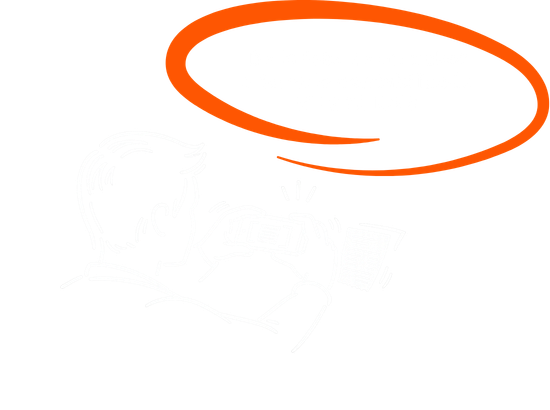
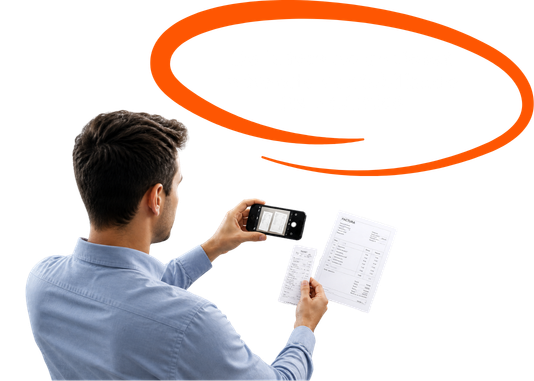
cambios y ajustes antes de subida a hubspot

diff --git a/src/components/sections/CampaignHeroSection.jsx b/src/components/sections/CampaignHeroSection.jsx
@@ -170,13 +170,30 @@ function CameraArt({ bubbleLines }) {
   )
 }
 
-function ImageArt({ src, alt }) {
+function ImageArt({ src, alt, layout }) {
+  const isCameraHero = layout === 'camera-hero'
+  const isSupervisarHero = layout === 'supervisar-hero'
+
   return (
-    <div className="relative mx-auto flex h-full w-full max-w-[25rem] items-center justify-center">
+    <div
+      className={`relative mx-auto flex h-full w-full items-start justify-center ${
+        isCameraHero
+          ? 'max-w-[24rem] lg:max-w-[30rem] lg:mt-8 lg:translate-x-4 lg:justify-end'
+          : isSupervisarHero
+            ? 'max-w-[24rem] lg:max-w-[34rem] lg:mt-5 lg:-translate-x-10 lg:justify-end'
+            : 'max-w-[25rem] lg:max-w-[27rem] lg:-mt-4 lg:justify-end'
+      }`}
+    >
       <img
         src={src}
         alt={alt}
-        className="relative z-10 h-auto w-full max-w-[24rem] object-contain drop-shadow-[0_18px_40px_rgba(6,10,18,0.28)]"
+        className={`relative z-10 h-auto w-full object-contain drop-shadow-[0_18px_40px_rgba(6,10,18,0.28)] ${
+          isCameraHero
+            ? 'max-w-[23rem] lg:max-w-[29rem]'
+            : isSupervisarHero
+              ? 'max-w-[24rem] lg:max-w-[33rem]'
+              : 'max-w-[24rem] lg:max-w-[26rem]'
+        }`}
       />
     </div>
   )
@@ -200,7 +217,7 @@ function CampaignHeroArt({ art }) {
   }
 
   if (art.type === 'image') {
-    return <ImageArt src={art.src} alt={art.alt} />
+    return <ImageArt src={art.src} alt={art.alt} layout={art.layout} />
   }
 
   return null
@@ -209,11 +226,16 @@ function CampaignHeroArt({ art }) {
 export function CampaignHeroSection({ variant }) {
   const { hero, tracking } = variant
   const hasTrialOffer = Boolean(hero.trialOffer)
+  const isSupervisarHero = hero.art?.layout === 'supervisar-hero'
 
   return (
     <section
       className={`relative overflow-hidden bg-[#0f2044] px-6 pt-28 text-white sm:pt-32 lg:pt-36 ${
-        hasTrialOffer ? 'pb-16 sm:pb-20 lg:pb-24' : 'pb-10 sm:pb-12'
+        hasTrialOffer
+          ? 'pb-16 sm:pb-20 lg:pb-24'
+          : isSupervisarHero
+            ? 'pb-12 sm:pb-14 lg:pb-10'
+            : 'pb-10 sm:pb-12'
       }`}
     >
       <div
@@ -230,9 +252,21 @@ export function CampaignHeroSection({ variant }) {
           ))}
         </h1>
 
-        <div className="mt-6 grid gap-8 lg:mt-5 lg:grid-cols-[minmax(0,1.08fr)_minmax(16rem,0.82fr)] lg:items-start">
+        <div
+          className={`mt-6 grid gap-8 lg:mt-5 lg:items-start ${
+            isSupervisarHero
+              ? 'lg:gap-2 lg:grid-cols-[minmax(0,1fr)_minmax(20rem,1fr)]'
+              : 'lg:grid-cols-[minmax(0,1.08fr)_minmax(16rem,0.82fr)]'
+          }`}
+        >
           <div className="max-w-3xl">
-            <ul className="space-y-3 text-[1.28rem] leading-[1.08] font-bold tracking-[-0.01em] text-white sm:text-[1.4rem] lg:text-[1.5rem]">
+            <ul
+              className={`space-y-3 leading-[1.08] font-bold tracking-[-0.01em] text-white ${
+                isSupervisarHero
+                  ? 'text-[1.16rem] sm:text-[1.26rem] lg:text-[1.34rem]'
+                  : 'text-[1.28rem] sm:text-[1.4rem] lg:text-[1.5rem]'
+              }`}
+            >
               {hero.bullets.map((bullet, index) => (
                 <li key={`${bullet.type}-${index}`} className="flex items-start gap-3">
                   {bullet.type === 'check' ? (
@@ -259,7 +293,7 @@ export function CampaignHeroSection({ variant }) {
               </div>
             ) : null}
 
-            <div className="mt-10 flex flex-col gap-4 sm:flex-row">
+            <div className={`flex flex-col gap-4 sm:flex-row ${isSupervisarHero ? 'mt-9 lg:mt-11' : 'mt-10'}`}>
               <a
                 href={siteConfig.urls.demo}
                 target="_blank"
@@ -289,7 +323,7 @@ export function CampaignHeroSection({ variant }) {
             </div>
           </div>
 
-          <div className="min-h-[14rem] lg:min-h-[20rem]">
+          <div className={`min-h-[14rem] ${isSupervisarHero ? 'lg:min-h-[21rem]' : 'lg:min-h-[20rem]'}`}>
             <CampaignHeroArt art={hero.art} />
           </div>
         </div>

diff --git a/src/index.css b/src/index.css
@@ -29,9 +29,7 @@ body,
 body {
   margin: 0;
   min-width: 320px;
-  background:
-    radial-gradient(circle at top, rgba(254, 86, 2, 0.08), transparent 30%),
-    var(--page-bg);
+  background: var(--page-bg);
 }
 
 a:focus-visible,
@@ -91,9 +89,7 @@ button:focus-visible {
 }
 
 .mesh-bg {
-  background:
-    radial-gradient(ellipse 80% 60% at 50% -20%, rgba(249, 115, 22, 0.12), transparent),
-    radial-gradient(ellipse 60% 40% at 80% 100%, rgba(59, 130, 246, 0.06), transparent);
+  background: radial-gradient(ellipse 60% 40% at 80% 100%, rgba(59, 130, 246, 0.06), transparent);
 }
 
 .grid-lines {
@@ -116,11 +112,11 @@ button:focus-visible {
 }
 
 .glow-orange {
-  box-shadow: 0 4px 24px color-mix(in srgb, var(--cta-accent) 35%, transparent);
+  box-shadow: none;
 }
 
 .glow-soft {
-  box-shadow: 0 0 20px color-mix(in srgb, var(--cta-accent) 20%, transparent);
+  box-shadow: none;
 }
 
 .gradient-text {
@@ -141,12 +137,11 @@ button:focus-visible {
   background: linear-gradient(135deg, var(--cta-accent), #dc4a00);
   transition:
     transform 0.25s ease,
-    box-shadow 0.25s ease;
+    background-color 0.25s ease;
 }
 
 .btn-primary:hover {
   transform: translateY(-2px);
-  box-shadow: 0 8px 32px color-mix(in srgb, var(--cta-accent) 50%, transparent);
 }
 
 .btn-ghost {
@@ -245,7 +240,7 @@ button:focus-visible {
 }
 
 .pulse-ring {
-  animation: pulse-ring 2.5s ease infinite;
+  animation: none;
 }
 
 @keyframes float {
@@ -273,17 +268,14 @@ button:focus-visible {
 
 .campaign-btn-primary {
   background: var(--cta-accent);
-  box-shadow: 0 18px 40px color-mix(in srgb, var(--cta-accent) 28%, transparent);
   transition:
     transform 0.25s ease,
-    box-shadow 0.25s ease,
     background-color 0.25s ease;
 }
 
 .campaign-btn-primary:hover {
   transform: translateY(-2px);
   background: var(--cta-accent-hover);
-  box-shadow: 0 24px 48px color-mix(in srgb, var(--cta-accent) 36%, transparent);
 }
 
 .campaign-btn-secondary {

diff --git a/hubspot/d27-docs-theme/modules/hero_campaign.module/module.html b/hubspot/d27-docs-theme/modules/hero_campaign.module/module.html
@@ -1,5 +1,6 @@
 {% set fallback_art = get_asset_url("../../images/reduce-trabajo-contable-hero.png") %}
-<section class="relative overflow-hidden bg-[#0f2044] px-6 pt-28 text-white sm:pt-32 lg:pt-36 {% if module.trial_offer_enabled %}pb-16 sm:pb-20 lg:pb-24{% else %}pb-10 sm:pb-12{% endif %}">
+{% set is_supervisar_hero = module.art_layout == "supervisar-hero" %}
+<section class="relative overflow-hidden bg-[#0f2044] px-6 pt-28 text-white sm:pt-32 lg:pt-36 {% if module.trial_offer_enabled %}pb-16 sm:pb-20 lg:pb-24{% elif is_supervisar_hero %}pb-12 sm:pb-14 lg:pb-10{% else %}pb-10 sm:pb-12{% endif %}">
   <div
     class="pointer-events-none absolute inset-x-0 bottom-0 h-[48%] bg-[#4269af]"
     style="clip-path: polygon(0 34%, 100% 0, 100% 100%, 0 100%);"
@@ -10,9 +11,9 @@
       {{ module.title_html }}
     </div>
 
-    <div class="mt-6 grid gap-8 lg:mt-5 lg:grid-cols-[minmax(0,1.08fr)_minmax(16rem,0.82fr)] lg:items-start">
+    <div class="mt-6 grid gap-8 lg:mt-5 lg:items-start {% if is_supervisar_hero %}lg:gap-2 lg:grid-cols-[minmax(0,1fr)_minmax(20rem,1fr)]{% else %}lg:grid-cols-[minmax(0,1.08fr)_minmax(16rem,0.82fr)]{% endif %}">
       <div class="max-w-3xl">
-        <div class="landing-richtext text-[1.28rem] leading-[1.08] font-bold tracking-[-0.01em] text-white sm:text-[1.4rem] lg:text-[1.5rem]">
+        <div class="landing-richtext leading-[1.08] font-bold tracking-[-0.01em] text-white {% if is_supervisar_hero %}text-[1.16rem] sm:text-[1.26rem] lg:text-[1.34rem]{% else %}text-[1.28rem] sm:text-[1.4rem] lg:text-[1.5rem]{% endif %}">
           {{ module.bullets_html }}
         </div>
 
@@ -27,11 +28,11 @@
           </div>
         {% endif %}
 
-        <div class="mt-10 flex flex-col gap-4 sm:flex-row">
+        <div class="flex flex-col gap-4 sm:flex-row {% if is_supervisar_hero %}mt-9 lg:mt-11{% else %}mt-10{% endif %}">
           <a
             href="{{ module.primary_cta_anchor }}"
             data-scroll-link
-            class="btn-primary glow-orange inline-flex items-center justify-center gap-2 rounded-[999px] px-8 py-4 text-lg font-extrabold text-white no-underline"
+            class="btn-primary inline-flex items-center justify-center gap-2 rounded-[999px] px-8 py-4 text-lg font-extrabold text-white no-underline"
           >
             {{ module.primary_cta_label }}
           </a>
@@ -45,12 +46,12 @@
         </div>
       </div>
 
-      <div class="min-h-[14rem] lg:min-h-[20rem]">
-        <div class="relative mx-auto flex h-full w-full max-w-[25rem] items-center justify-center">
+      <div class="min-h-[14rem] {% if is_supervisar_hero %}lg:min-h-[21rem]{% else %}lg:min-h-[20rem]{% endif %}">
+        <div class="relative mx-auto flex h-full w-full items-start justify-center {% if is_supervisar_hero %}max-w-[24rem] lg:mt-5 lg:max-w-[34rem] lg:-translate-x-10 lg:justify-end{% else %}max-w-[24rem] lg:mt-8 lg:max-w-[30rem] lg:translate-x-4 lg:justify-end{% endif %}">
           <img
             src="{{ module.art_image.src or fallback_art }}"
             alt="{{ module.art_image.alt or module.art_alt }}"
-            class="relative z-10 h-auto w-full max-w-[24rem] object-contain drop-shadow-[0_18px_40px_rgba(6,10,18,0.28)]"
+            class="relative z-10 h-auto w-full object-contain drop-shadow-[0_18px_40px_rgba(6,10,18,0.28)] {% if is_supervisar_hero %}max-w-[24rem] lg:max-w-[33rem]{% else %}max-w-[23rem] lg:max-w-[29rem]{% endif %}"
           />
         </div>
       </div>

diff --git a/src/content/landingVariants.js b/src/content/landingVariants.js
@@ -58,29 +58,32 @@ export const landingVariants = {
       ],
       bullets: [
         buildBullet(
-          'dot',
+          'check',
           { text: 'Tus clientes envían documentos' },
           { text: 'WhatsApp', tone: 'badge-whatsapp' },
           { text: 'Email', tone: 'badge-mail' },
         ),
         buildBullet(
-          'dot',
+          'check',
           { text: 'El sistema los recibe y extrae la información automáticamente.' },
         ),
         buildBullet(
-          'dot',
+          'check',
           { text: 'Tú solo validas.', tone: 'accent' },
           { text: ' Nada de picar datos.' },
         ),
         buildBullet(
-          'dot',
+          'check',
           { text: 'Y además, contabiliza automáticamente en tu ERP.' },
         ),
       ],
       primaryCta: 'SOLICITAR DEMO',
       secondaryCta: 'VER CÓMO FUNCIONA',
       art: {
-        type: 'erp-card',
+        type: 'image',
+        src: '/supervisar-hero.png',
+        alt: 'Ilustración de una persona tirando el teclado para dejar de procesar y empezar a supervisar.',
+        layout: 'supervisar-hero',
       },
     },
     finalCta: {
@@ -184,6 +187,7 @@ export const landingVariants = {
         type: 'image',
         src: '/automatiza-contabilidad-hero.png',
         alt: 'Ilustración de una persona fotografiando un ticket con el mensaje EN 2 CLICKS.',
+        layout: 'camera-hero',
       },
     },
     finalCta: {

diff --git a/hubspot/d27-docs-theme/modules/solution_steps.module/module.html b/hubspot/d27-docs-theme/modules/solution_steps.module/module.html
@@ -17,8 +17,8 @@
   },
   {
     "step_number": "03",
-    "image_src": get_asset_url("../../images/solution-steps/gestor.jpeg"),
-    "image_alt": "Gestor validando la información antes de enviarla al ERP",
+    "image_src": get_asset_url("../../images/solution-steps/gestor-valida.png"),
+    "image_alt": "Gestor supervisando la validación final antes de contabilizar en el ERP",
     "title": "Tú validas y envías al ERP.",
     "description_html": "<p>Recibes un resumen claro, organizado y trazable. Información extraída, lista para revisar y contabilizar. Sin buscar, sin descargar, sin reorganizar. Integración nativa con a3ERP, Holded y Odoo.</p>",
     "accent_color": "#C0392B"
@@ -71,7 +71,7 @@
           {% set accent_color = step.accent_color or "#0796A3" %}
           <div class="absolute inset-0 opacity-60" style="background: linear-gradient(135deg, color-mix(in srgb, {{ accent_color }} 22%, transparent), color-mix(in srgb, {{ accent_color }} 6%, transparent));"></div>
           <div class="relative z-10">
-            <div class="aspect-square overflow-hidden border-b border-white/8 sm:aspect-[5/4]">
+            <div class="aspect-square overflow-hidden border-b border-white/8 sm:aspect-[5/4]" {% if step.step_number == "03" %}style="background-color:#0f2044;"{% endif %}>
               {% if step.image and step.image.src %}
                 <img src="{{ step.image.src }}" alt="{{ step.image.alt or step.image_alt }}" class="h-full w-full object-cover" loading="lazy" />
               {% else %}

diff --git a/src/components/sections/SolutionSection.jsx b/src/components/sections/SolutionSection.jsx
@@ -60,7 +60,10 @@ export function SolutionSection() {
                 }}
               />
               <div className="relative z-10">
-                <div className="aspect-square overflow-hidden border-b border-white/8 sm:aspect-[5/4]">
+                <div
+                  className="aspect-square overflow-hidden border-b border-white/8 sm:aspect-[5/4]"
+                  style={step.number === '03' ? { backgroundColor: '#0f2044' } : undefined}
+                >
                   <img
                     src={step.imageSrc}
                     alt={step.imageAlt}

diff --git a/src/content/landingContent.js b/src/content/landingContent.js
@@ -210,8 +210,8 @@ export const baseLandingContent = {
     {
       number: '03',
       icon: 'erp',
-      imageSrc: '/solution-steps/gestor.jpeg',
-      imageAlt: 'Gestor validando la información antes de enviarla al ERP',
+      imageSrc: '/solution-steps/gestor-valida.png',
+      imageAlt: 'Gestor supervisando la validación final antes de contabilizar en el ERP',
       title: 'Tú validas y envías al ERP.',
       description: 'Recibes un resumen claro, organizado y trazable. Información extraída, lista para revisar y contabilizar. Sin buscar, sin descargar, sin reorganizar. Integración nativa con a3ERP, Holded y Odoo. Envía la información directamente, sin teclear nada, sin exportar nada manualmente.',
       accent: '#C0392B',

diff --git a/hubspot/d27-docs-theme/modules/plans_section.module/module.html b/hubspot/d27-docs-theme/modules/plans_section.module/module.html
@@ -156,7 +156,7 @@
       <a
         href="{{ module.cta_anchor }}"
         data-scroll-link
-        class="btn-primary glow-orange inline-flex items-center justify-center gap-2 rounded-2xl px-10 py-4 text-base font-bold text-white no-underline"
+        class="btn-primary inline-flex items-center justify-center gap-2 rounded-2xl px-10 py-4 text-base font-bold text-white no-underline"
       >
         {{ module.cta_label }}
       </a>

diff --git a/hubspot/d27-docs-theme/templates/partials/nav.html b/hubspot/d27-docs-theme/templates/partials/nav.html
@@ -28,7 +28,7 @@
       <a
         href="#demo-form"
         data-scroll-link
-        class="btn-primary glow-orange rounded-xl px-5 py-2.5 text-sm font-semibold text-white no-underline"
+        class="btn-primary rounded-xl px-5 py-2.5 text-sm font-semibold text-white no-underline"
       >
         Pedir demo
       </a>

diff --git a/hubspot/src/theme.css b/hubspot/src/theme.css
@@ -116,7 +116,7 @@
 }
 
 .hubspot-form-shell .hs-button:hover {
-  box-shadow: 0 8px 32px color-mix(in srgb, var(--cta-accent) 50%, transparent);
+  box-shadow: none;
 }
 
 .hubspot-form-shell .submitted-message {

diff --git a/src/components/sections/HeroPromoStrip.jsx b/src/components/sections/HeroPromoStrip.jsx
@@ -5,7 +5,7 @@ export function HeroPromoStrip() {
 
   return (
     <section className="relative z-20 -mt-10 pb-4 md:-mt-12 md:pb-6">
-      <div className="w-full border-y border-[#ff8d57]/45 bg-[#ff5700] shadow-[0_18px_42px_rgba(255,87,0,0.22)]">
+      <div className="w-full border-y border-[#ff8d57]/45 bg-[#ff5700] shadow-[0_16px_36px_rgba(7,10,18,0.18)]">
         <div className="mx-auto max-w-6xl px-6 py-4 text-center">
           <p className="text-[0.68rem] font-bold tracking-[0.28em] text-white/82 uppercase sm:text-[0.72rem]">
             {heroPromo.eyebrow}

diff --git a/src/components/sections/NavBar.jsx b/src/components/sections/NavBar.jsx
@@ -62,7 +62,7 @@ export function NavBar({ trackingContext = {} }) {
             href={siteConfig.urls.demo}
             target="_blank"
             rel="noreferrer"
-            className="btn-primary glow-orange rounded-xl px-5 py-2.5 text-sm font-semibold text-white no-underline"
+            className="btn-primary rounded-xl px-5 py-2.5 text-sm font-semibold text-white no-underline"
             onClick={() =>
               trackEvent(
                 'nav_demo_click',